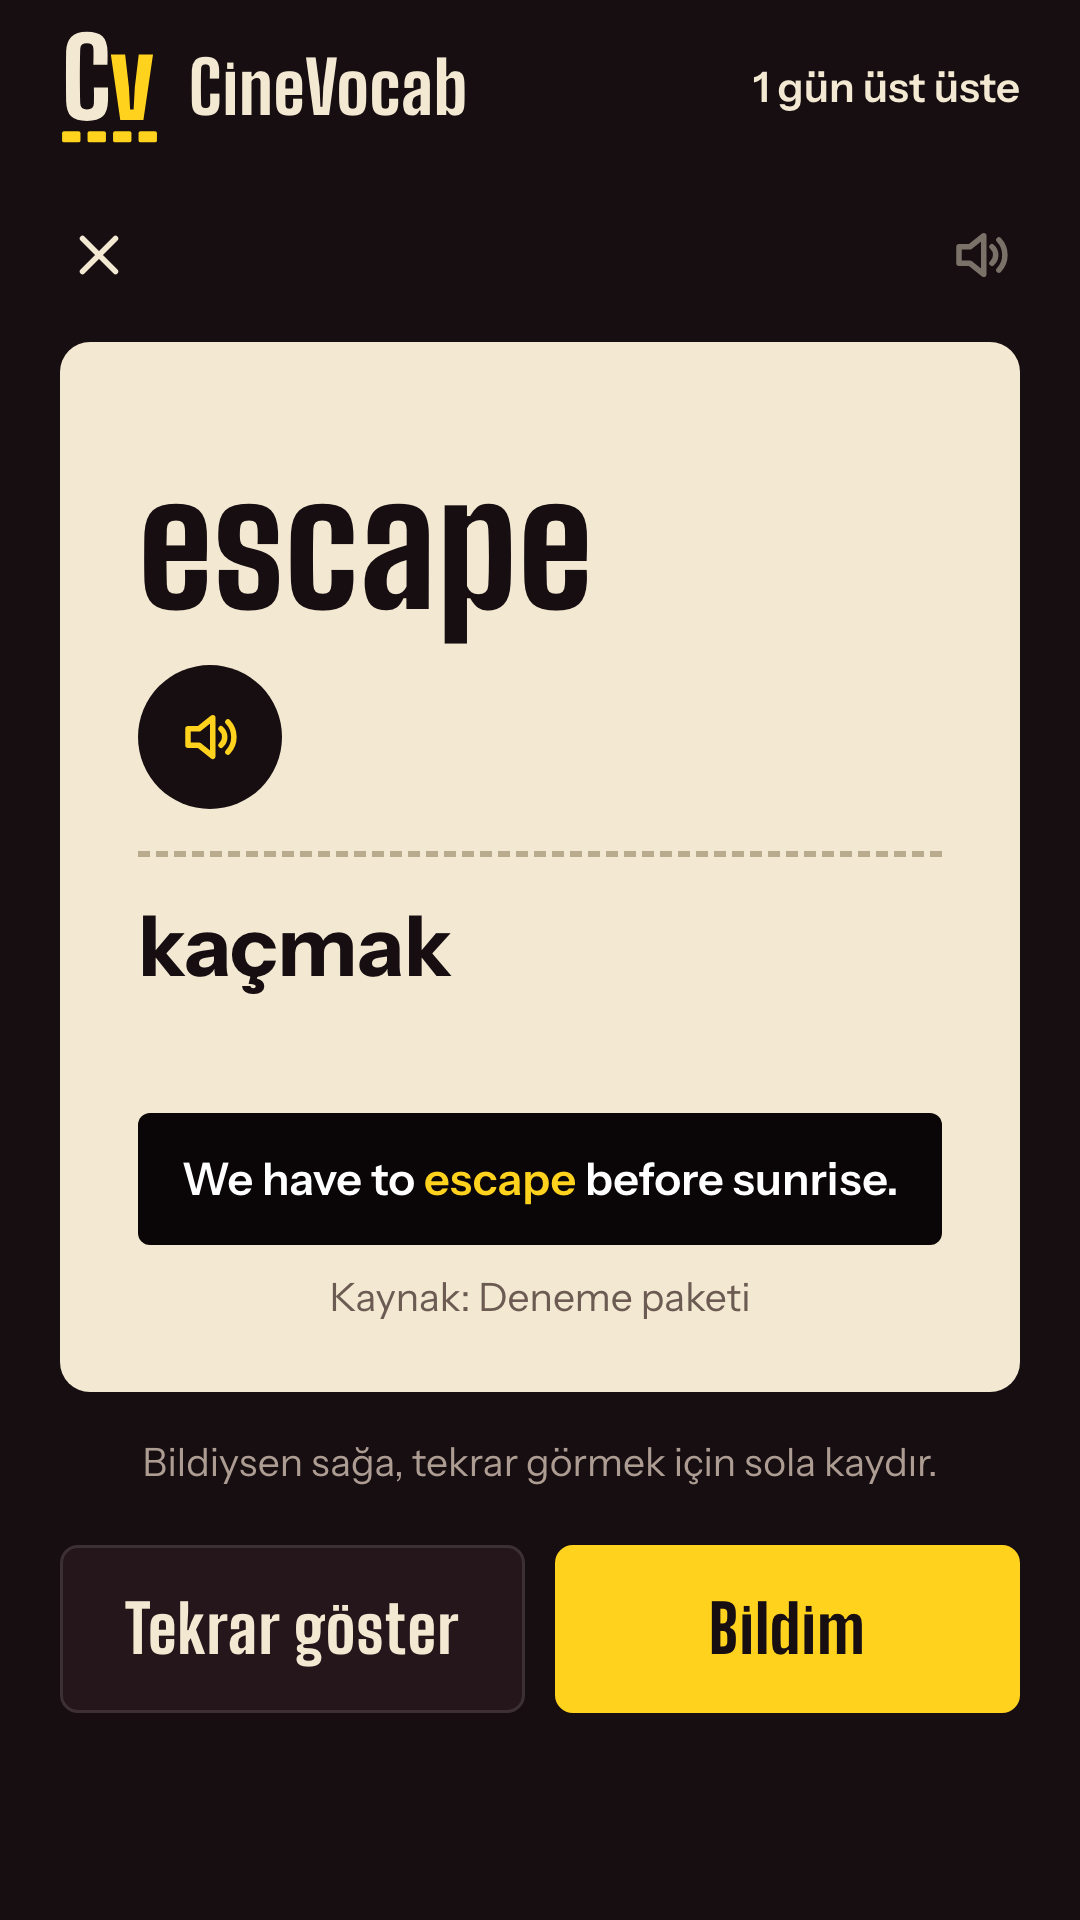
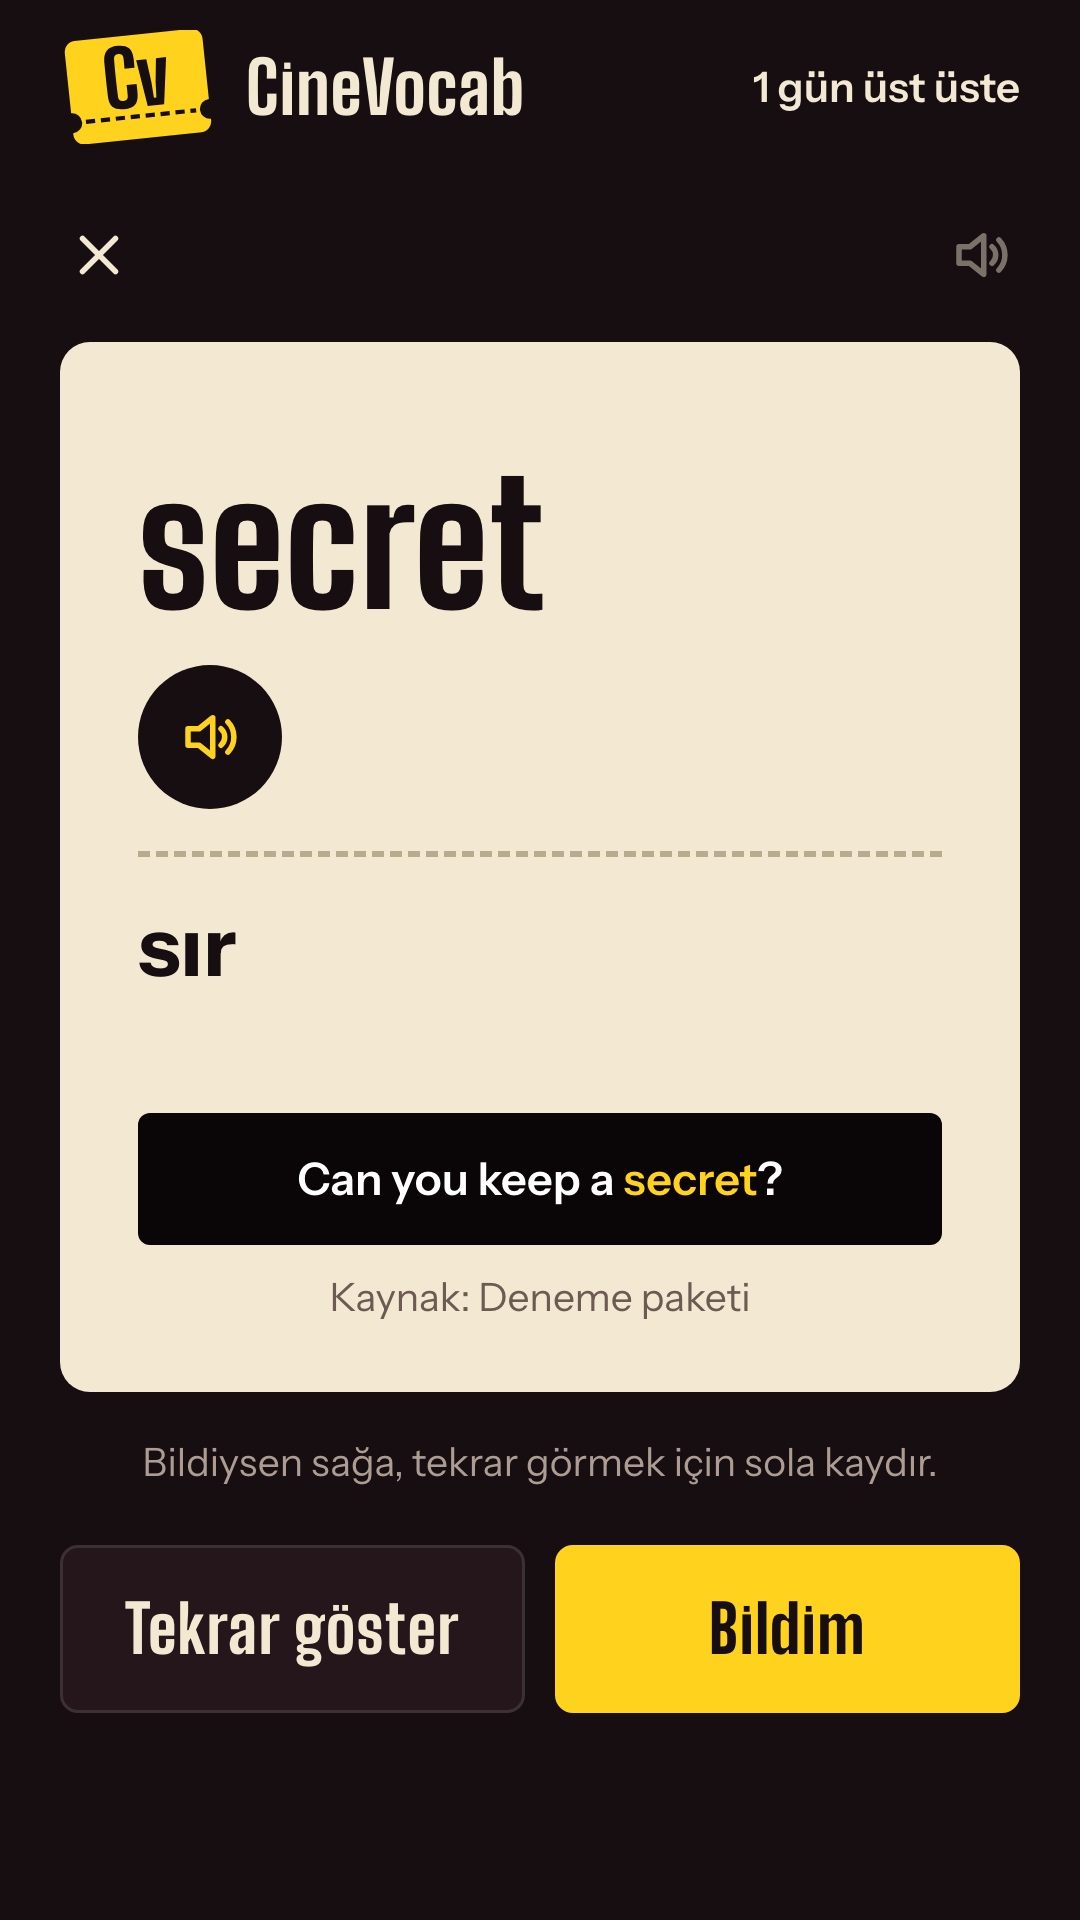
Üst şeritte de delikli bilet (koyuda sarı, açık temada bordo); mağaza görüntüleri yenilendi

diff --git a/www/index.html b/www/index.html
@@ -38,12 +38,13 @@
     <symbol id="i-swap" viewBox="0 0 24 24"><path d="M4 8h14M14 4l4 4-4 4M20 16H6M10 12l-4 4 4 4"/></symbol>
     <symbol id="i-speaker" viewBox="0 0 24 24"><path d="M4 9v6h4l5 4V5L8 9zM16 9a4 4 0 0 1 0 6M18.500 6.500a8 8 0 0 1 0 11"/></symbol>
     <symbol id="i-camera" viewBox="0 0 24 24"><path d="M4 8h3l1.500-2.500h7L17 8h3a1 1 0 0 1 1 1v9a1 1 0 0 1-1 1H4a1 1 0 0 1-1-1V9a1 1 0 0 1 1-1z"/><circle cx="12" cy="13" r="3.500"/></symbol>
-    <!-- Logo: "alti cizili Cv". Krem C, sari v, altinda sari kesik cizgi: uygulamadaki dokunulabilir sari kelime. Renkler .logo icindeki --lc (C), --lv (v) ve --ls'ten (cizgi) gelir. -->
-    <symbol id="i-logo" viewBox="86 58 340 398"><g transform="translate(256 240) scale(1.13) translate(-256 -240)"><path fill="var(--lc)" d="M186.3 360Q151.9 360 137.4 345.7Q122.8 331.3 122 298.1Q121.8 281.6 121.6 262.1Q121.5 242.5 121.5 221.9Q121.5 201.3 121.6 181.7Q121.8 162 122 145.3Q122.5 116.7 137.6 100.4Q152.8 84 186.2 84Q219.3 84 234.1 98.3Q249 112.5 249.9 145.6Q250.1 151.4 250.1 158.7Q250.1 166 249.9 173.3Q249.8 180.6 249.6 186.4H206.1Q206.3 179.5 206.4 170.8Q206.6 162.1 206.6 153.3Q206.6 144.5 206.4 137.7Q206.2 128.7 201.1 124.1Q196 119.6 186.2 119.6Q176.3 119.6 171.1 124.1Q165.9 128.7 165.6 137.7Q164.9 157.2 164.7 178.6Q164.4 200 164.4 222Q164.4 243.9 164.7 265.2Q164.9 286.6 165.6 306Q165.9 315.1 171.1 319.8Q176.3 324.4 186.3 324.4Q196.8 324.4 202.2 319.8Q207.6 315.1 207.8 306Q207.9 299.1 208 290.2Q208.1 281.3 208 272.4Q207.9 263.5 207.7 256.6H251.2Q251.6 266.3 251.6 277.4Q251.6 288.4 251.3 298.1Q250.3 331.3 235.3 345.7Q220.2 360 186.3 360Z"/><path fill="var(--lv)" d="M289.3 356.8 260.2 154.5H304.3L316 256.2L319.7 324.6H330.5L334.2 256.2L346.3 154.5H390.5L360.8 356.8Z"/><g fill="var(--ls)"><rect x="109.5" y="392" width="56.8" height="34" rx="6"/><rect x="188.2" y="392" width="56.8" height="34" rx="6"/><rect x="267.0" y="392" width="56.8" height="34" rx="6"/><rect x="345.8" y="392" width="56.8" height="34" rx="6"/></g></g></symbol>
+    <!-- Logo: "delikli bilet". Hafif egik bilet; Cv biletten oyulmus, kesik cizgi ayni zamanda yirtma cizgisi. Rengi .logo icindeki --lc'den gelir. -->
+    <mask id="cvdelik"><rect width="512" height="512" fill="#fff"/><g transform="translate(102.4 99.6) scale(.6)"><path d="M186.3 360Q151.9 360 137.4 345.7Q122.8 331.3 122 298.1Q121.8 281.6 121.6 262.1Q121.5 242.5 121.5 221.9Q121.5 201.3 121.6 181.7Q121.8 162 122 145.3Q122.5 116.7 137.6 100.4Q152.8 84 186.2 84Q219.3 84 234.1 98.3Q249 112.5 249.9 145.6Q250.1 151.4 250.1 158.7Q250.1 166 249.9 173.3Q249.8 180.6 249.6 186.4H206.1Q206.3 179.5 206.4 170.8Q206.6 162.1 206.6 153.3Q206.6 144.5 206.4 137.7Q206.2 128.7 201.1 124.1Q196 119.6 186.2 119.6Q176.3 119.6 171.1 124.1Q165.9 128.7 165.6 137.7Q164.9 157.2 164.7 178.6Q164.4 200 164.4 222Q164.4 243.9 164.7 265.2Q164.9 286.6 165.6 306Q165.9 315.1 171.1 319.8Q176.3 324.4 186.3 324.4Q196.8 324.4 202.2 319.8Q207.6 315.1 207.8 306Q207.9 299.1 208 290.2Q208.1 281.3 208 272.4Q207.9 263.5 207.7 256.6H251.2Q251.6 266.3 251.6 277.4Q251.6 288.4 251.3 298.1Q250.3 331.3 235.3 345.7Q220.2 360 186.3 360Z"/><path d="M289.3 356.8 260.2 154.5H304.3L316 256.2L319.7 324.6H330.5L334.2 256.2L346.3 154.5H390.5L360.8 356.8Z"/></g><path d="M112 338H400" stroke="#000" stroke-width="11" stroke-dasharray="24 15"/></mask>
+    <symbol id="i-logo" viewBox="40 96 432 320"><g transform="rotate(-6 256 256) translate(256 256) scale(1.08) translate(-256 -262)"><path fill="var(--lc)" mask="url(#cvdelik)" d="M104 126H408a28 28 0 0 1 28 28V312a26 26 0 0 0 0 52V368a28 28 0 0 1-28 28H104a28 28 0 0 1-28-28V364a26 26 0 0 0 0-52V154a28 28 0 0 1 28-28z"/></g></symbol>
   </svg>
 
   <header class="top">
-    <span class="logo" aria-hidden="true"><svg viewBox="0 0 340 398"><use href="#i-logo"/></svg></span>
+    <span class="logo" aria-hidden="true"><svg viewBox="0 0 432 320"><use href="#i-logo"/></svg></span>
     <b class="brand">CineVocab</b>
     <span class="pill" id="streak" hidden><span id="streakN"></span></span>
   </header>

diff --git a/dev/tests/hesap.test.js b/dev/tests/hesap.test.js
@@ -613,13 +613,14 @@ test("misafir: tekrar oturumunda ve ana karede once kendi kelimeleri", () => {
   assert.equal(h.heroScene([ham[0]], "2026-11-24", (x) => x.ep !== "demoPack").w, "forgive", "kendi cumlesi yoksa deneme destesinden");
 });
 
-test("logo: ust seritte 'alti cizili Cv' isareti var, harfler cizim (yazi degil); acik temada renkleri degisir", () => {
+test("logo: ust seritte delikli bilet var, harfler cizim (yazi degil); acik temada rengi degisir", () => {
   const fs = require("node:fs"), path = require("node:path"), kok = path.join(__dirname, "..", "..", "www");
   const html = fs.readFileSync(path.join(kok, "index.html"), "utf8"), css = fs.readFileSync(path.join(kok, "app.css"), "utf8");
   const ust = html.slice(html.indexOf('<header class="top">'), html.indexOf("</header>"));
-  assert.match(ust, /<use href="#i-logo"\/>/); assert.doesNotMatch(ust, />Cv</, "harfler yazi tipi gerektirmeyen cizim olmali");
+  assert.match(ust, /<svg viewBox="0 0 432 320"><use href="#i-logo"\/>/, "dis kutu 0 0'dan baslamali, yoksa logo kirpilir"); assert.doesNotMatch(ust, />Cv</, "harfler yazi tipi gerektirmeyen cizim olmali");
   const sembol = html.slice(html.indexOf('<symbol id="i-logo"'), html.indexOf("</symbol>", html.indexOf('<symbol id="i-logo"')));
-  for (const r of ["--lc", "--lv", "--ls"]) assert.ok(sembol.includes("var(" + r + ")"), r); assert.equal((sembol.match(/<rect /g) || []).length, 4, "dort parcali kesik alt cizgi");
-  assert.match(css, /\.logo \{ --lc: var\(--ink\); --lv: var\(--sun\); --ls: var\(--sun\)/); assert.match(css, /\[data-theme="light"\] \.logo \{ --lv: var\(--hi\); --ls: var\(--hi\)/);
+  assert.match(sembol, /fill="var\(--lc\)" mask="url\(#cvdelik\)"/); assert.match(html, /<mask id="cvdelik">[\s\S]*stroke-dasharray/, "Cv ve yirtma cizgisi biletten oyulur");
+  assert.match(css, /\.logo \{ --lc: var\(--sun\);/); assert.match(css, /\[data-theme="light"\] \.logo \{ --lc: var\(--hi\); \}/);
 });
+
 

diff --git a/www/app.css b/www/app.css
@@ -68,9 +68,9 @@ button { cursor: pointer; }
 
 /* ust serit */
 .top { flex: none; display: flex; align-items: center; gap: 10px; padding: calc(10px + env(safe-area-inset-top)) 20px 8px; }
-.logo { --lc: var(--ink); --lv: var(--sun); --ls: var(--sun); width: 33px; height: 38px; flex: none; }
+.logo { --lc: var(--sun); width: 52px; height: 38px; flex: none; }      /* biletin egimi cizimin icinde */
 .logo svg { display: block; width: 100%; height: 100%; }
-:root[data-theme="light"] .logo { --lv: var(--hi); --ls: var(--hi); }
+:root[data-theme="light"] .logo { --lc: var(--hi); }
 .brand { font: 800 24px/1 var(--disp); letter-spacing: .01em; }
 .pill { margin-left: auto; display: inline-flex; align-items: center; gap: 6px; min-height: 32px; font-size: 14px; font-weight: 600; color: var(--ink); }
 .pill .ic { width: 17px; height: 17px; color: var(--hi); }

diff --git a/.claude/tasarim/yon.md b/.claude/tasarim/yon.md
@@ -44,7 +44,8 @@ Yarı saydam kenar rengi + yuvarlak köşe ve kutularda `opacity`, kaydırırken
 ## Logo (25 Kasım 2026)
 Proje sahibi seçti. İki parça:
 - **Simge, "Delikli bilet":** perde bordosu zeminde hafif eğik sarı bilet; "Cv" biletten oyulmuş, kesik alt çizgi aynı zamanda yırtma çizgisi. Android simgesi, açılış ekranı, mağaza simgesi ve kapak görseli. Kaynak: `dev/tasarim/logo/cinevocab-simge.svg`.
-- **İşaret, "Altı çizili Cv":** krem C, sarı v, altında dört parçalı kesik çizgi. Uygulamanın üst şeridi gibi dar yerler. Kaynak: `dev/tasarim/logo/cinevocab-isaret.svg`; uygulamada `www/index.html` içindeki `#i-logo`, renkler `.logo` üzerindeki `--lc`, `--lv`, `--ls`.
+- Uygulamanın üst şeridinde de **bilet** durur (zeminsiz): `www/index.html` içindeki `#i-logo` ve `#cvdelik` maskesi; rengi `.logo` üzerindeki `--lc` (koyuda sarı, açık temada bordo). Proje sahibi üst şeritte de bileti istedi.
+- **İşaret, "Altı çizili Cv":** krem C, sarı v, altında dört parçalı kesik çizgi. Yalnızca biletin sığmayacağı çok dar yerler için yedek. Kaynak: `dev/tasarim/logo/cinevocab-isaret.svg`.
 - PNG üretimi: `dev/tasarim/logo/disari.html` (`?v=simge|kare|on|acilis|bordocv`). Android uyarlanır simgenin zemini düz `#7E1626`.
 - Mağaza denemesi için ikinci seçenek hazır: `store/deneme/icon-512-bordo-cv.png` (bordo zeminde sade Cv). Play Console'daki mağaza girişi denemesiyle karşılaştırılacak.
 - Satır içi SVG'de dıştaki kutu `0 0`'dan başlamalı; yoksa C kırpılır (bir kez oldu).

diff --git a/dev/sunucu/TASARIM-ISTEGI.md b/dev/sunucu/TASARIM-ISTEGI.md
@@ -29,7 +29,9 @@ Logo 25 Kasım 2026'da proje sahibi tarafından seçildi. İki parçası var; ye
 
 **Simge: "Delikli bilet".** Perde bordosu zeminde, hafif eğik sarı bir bilet. "Cv" harfleri biletten oyulmuş; altındaki kesik çizgi aynı zamanda biletin yırtma çizgisi. Kullanıldığı yer: eklenti simgesi (araç çubuğu, mağaza), favicon, sosyal paylaşım görseli, sitenin açılış sayfasındaki büyük logo.
 
-**İşaret: "Altı çizili Cv".** Krem C, sarı v, altında dört parçalı sarı kesik çizgi. Zeminsiz, sade. Kullanıldığı yer: dar alanlar (popup başlığı, site başlığı, video üstü kutunun etiketi). Mobil uygulamanın üst şeridinde de bu duruyor.
+**Başlıklarda da bilet.** Popup başlığında ve site başlığında bilet zeminsiz kullanılır: koyu zeminde sarı bilet, açık zeminde bordo (`#8E1B2B`) bilet; Cv ve yırtma çizgisi biletten oyuludur (arkadaki zemin görünür). Mobil uygulamanın üst şeridi böyle; örneği `~/cinevocab-mobile/www/index.html` içindeki `#i-logo` ve `#cvdelik`.
+
+**Yedek işaret: "Altı çizili Cv".** Krem C, sarı v, altında dört parçalı sarı kesik çizgi. Yalnızca biletin okunmayacağı kadar dar yerlerde (ör. video üstü kutunun küçük etiketi).
 
 - Kaynak dosyalar (salt okunur): `~/cinevocab-mobile/dev/tasarim/logo/`
   - `cinevocab-simge.svg`: simge (bordo kare + bilet). Harfler çizimdir, yazı tipi gerekmez.
